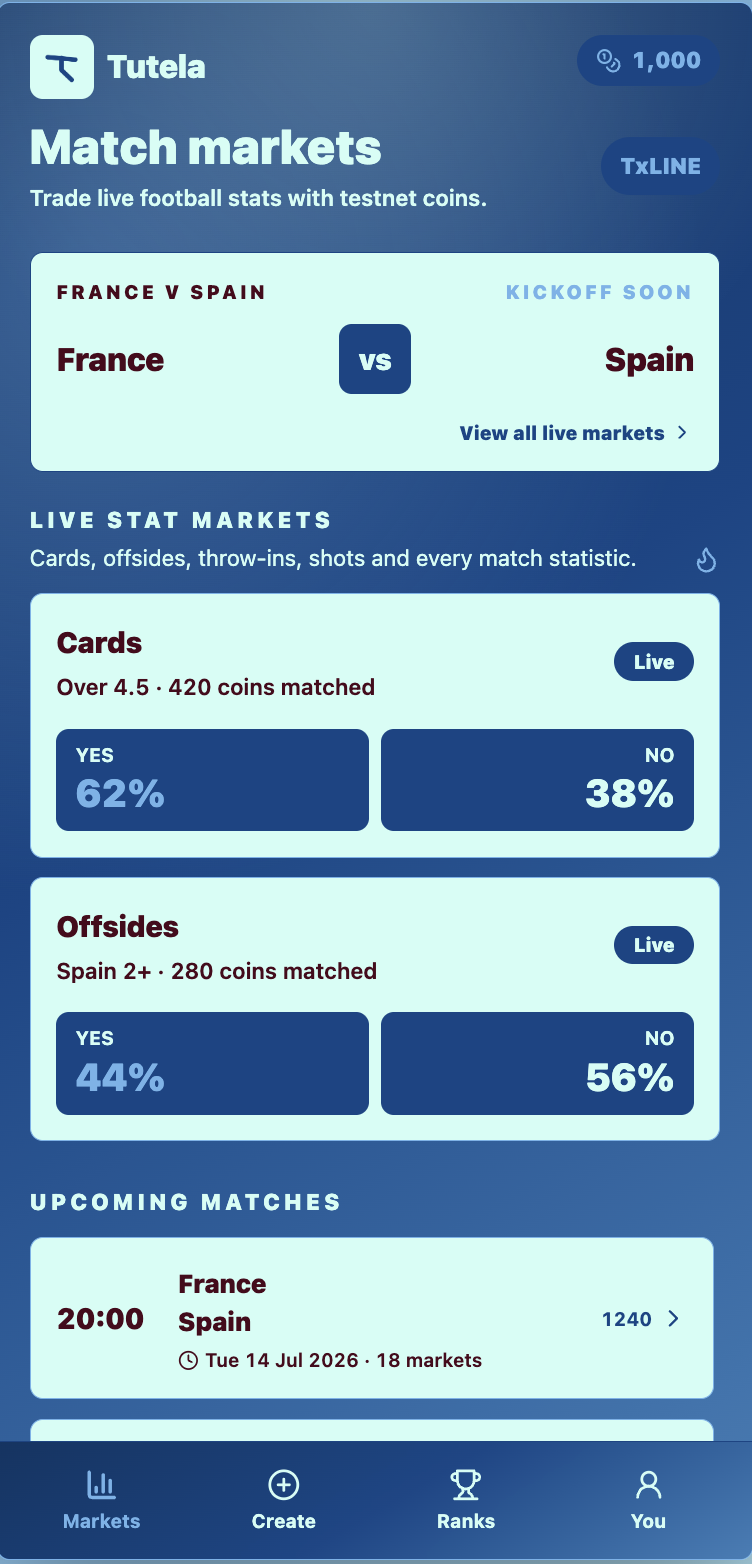
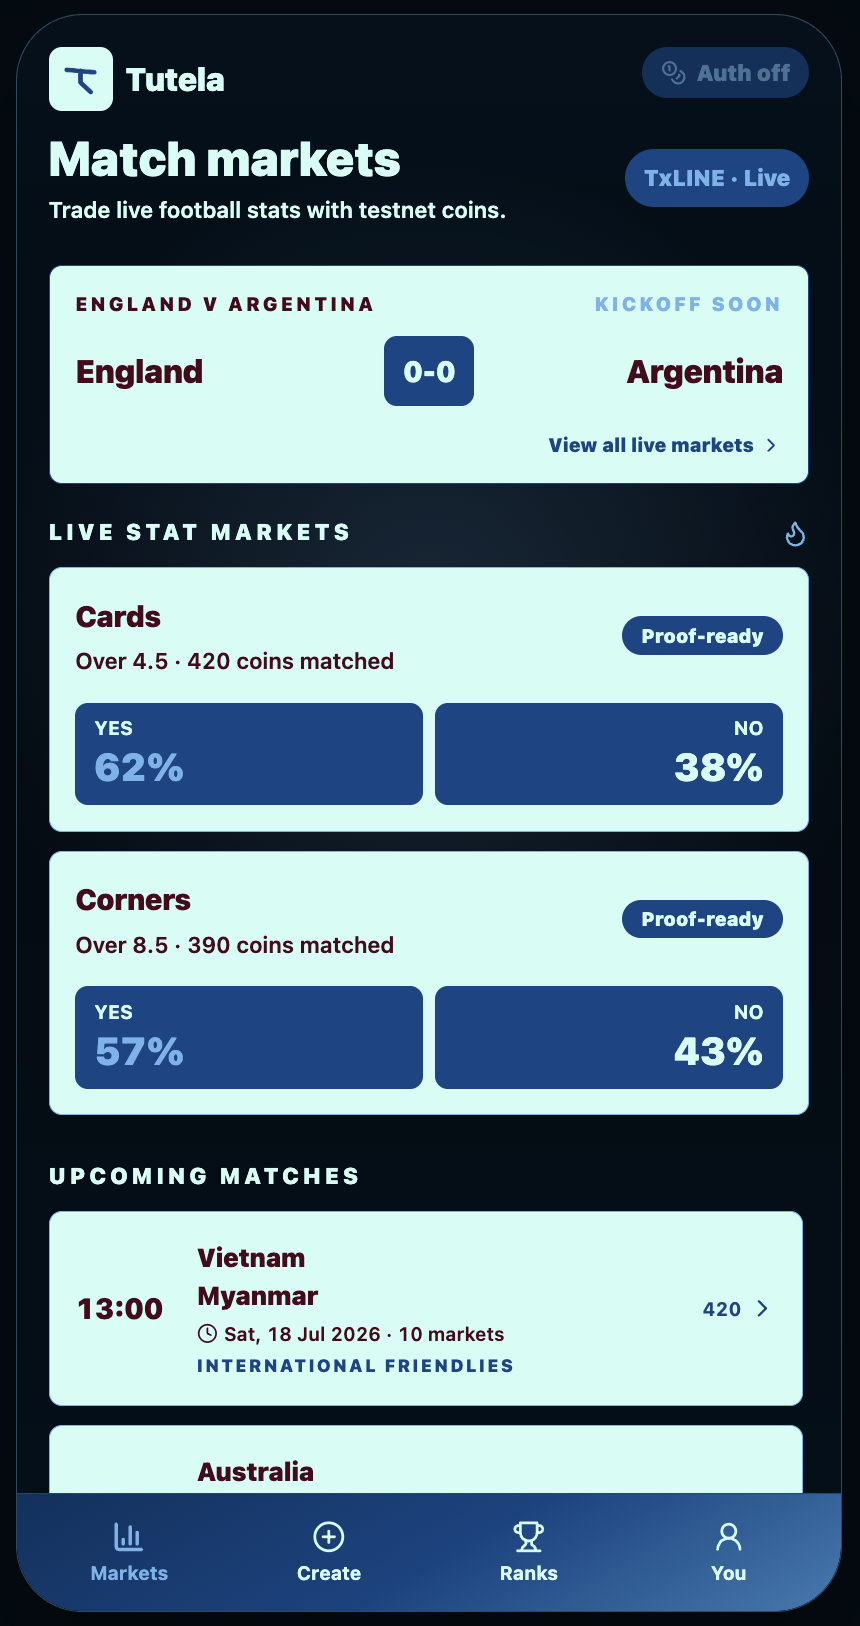
65% done

diff --git a/apps/web/app/globals.css b/apps/web/app/globals.css
@@ -8,6 +8,9 @@
   color: #D0FEF5;
   --tutela-primary: #6FB4EB;
   --tutela-secondary: #094586;
+  --tutela-main: var(--tutela-secondary);
+  --tutela-second: var(--tutela-primary);
+  --tutela-third: #D0FEF5;
   --app-content-max-width: 32.3rem;
   --app-frame-radius: 2rem;
   --app-frame-border: rgba(111, 180, 235, 0.35);
@@ -129,6 +132,32 @@ a {
   display: grid;
   background:
     linear-gradient(150deg, rgba(6, 50, 97, 0.96) 0%, rgba(9, 69, 134, 0.96) 52%, rgba(57, 126, 184, 0.96) 100%);
+}
+
+.landing-continuous-gradient {
+  display: flow-root;
+  background:
+    radial-gradient(
+      circle at 15% 20%,
+      color-mix(in srgb, var(--tutela-main) 28%, transparent),
+      transparent 38%
+    ),
+    radial-gradient(
+      circle at 85% 48%,
+      color-mix(in srgb, var(--tutela-second) 24%, transparent),
+      transparent 42%
+    ),
+    radial-gradient(
+      circle at 45% 85%,
+      color-mix(in srgb, var(--tutela-third) 22%, transparent),
+      transparent 46%
+    ),
+    linear-gradient(
+      180deg,
+      var(--tutela-main) 0%,
+      var(--tutela-second) 48%,
+      var(--tutela-third) 100%
+    );
 }
 
 .bg-\[\#D0FEF5\] .text-\[\#D0FEF5\] {

diff --git a/apps/web/app/page.tsx b/apps/web/app/page.tsx
@@ -254,7 +254,7 @@ export default function LandingPage() {
         </div>
       </section>
 
-      <div className="relative px-4 pb-14 md:px-6 md:pb-20 lg:px-8">
+      <div className="landing-continuous-gradient relative px-4 pb-14 md:px-6 md:pb-20 lg:px-8">
         <div className="mx-auto max-w-[90rem]">
           <section id="infrastructure" className="mx-auto mt-10 max-w-7xl overflow-hidden rounded-[1.75rem] border border-[#D0FEF5]/18 bg-[#F4FAFA] text-[#111827] shadow-[0_28px_90px_rgba(2,11,18,0.28)]">
             <div className="grid grid-cols-2 border-b border-[#094586]/12 md:grid-cols-3 xl:grid-cols-6">

diff --git a/apps/web/app/matches/page.tsx b/apps/web/app/matches/page.tsx
@@ -48,7 +48,6 @@ export default async function MatchesPage() {
         <div className="mb-3 flex items-end justify-between">
           <div>
             <h2 className="text-sm font-black uppercase tracking-[0.18em] text-[#D0FEF5]">Live stat markets</h2>
-            <p className="mt-1 text-sm text-[#D0FEF5]">Proof-ready cards and corners. Feed-derived markets are labelled before use.</p>
           </div>
           <Flame size={18} className="text-[#6FB4EB]" />
         </div>